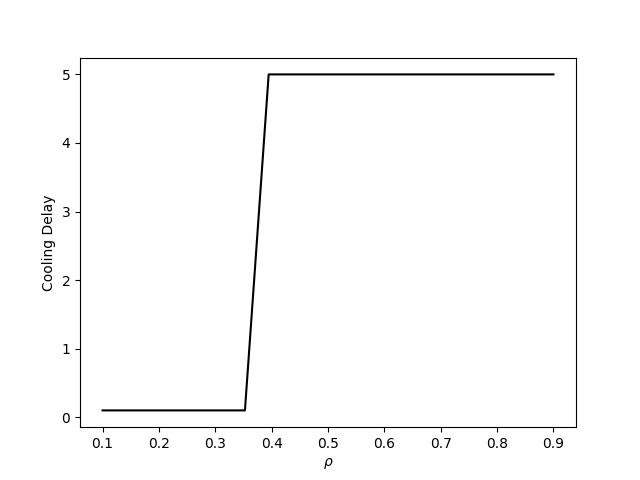
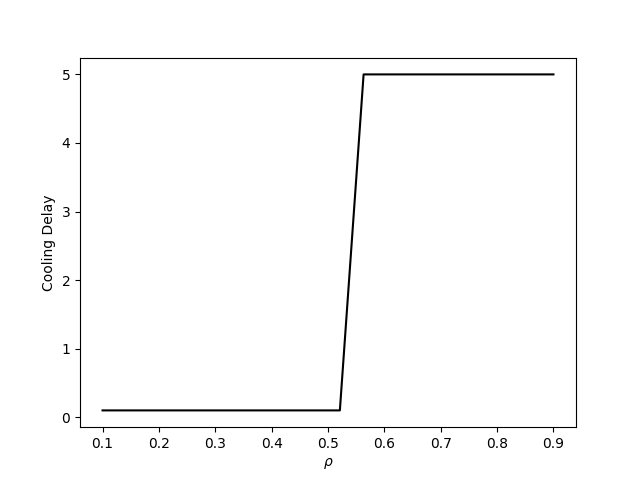
update find best delay

diff --git a/find_best_delay.py b/find_best_delay.py
@@ -30,7 +30,7 @@ def calc_no_linear_wait_cost(w1: float, wait_cost: float, alpha=0.7) -> float:
     return (w1 ** alpha)*wait_cost
 
 
-def run(qp, wait_cost=1.0, server_cost=10.0, wait_cost_calc_func=calc_wait_cost):
+def run(qp, wait_cost_calc_func=calc_wait_cost):
     """
     Find best cooling delay for a given set of parameters and utilization factor.
     :param qp: dictionary of parameters
@@ -39,6 +39,10 @@ def run(qp, wait_cost=1.0, server_cost=10.0, wait_cost_calc_func=calc_wait_cost)
     :param wait_cost_calc_func: function to calculate waiting cost
     :return: best cooling delay
     """
+    wait_cost = qp['wait_cost']
+    server_cost = qp['server_cost']
+    idle_bonus = qp['idle_bonus']
+
     rhoes = np.linspace(qp['utilization']['min'], qp['utilization']['max'],
                         qp['utilization']['num_points'])
 
@@ -73,6 +77,8 @@ def run(qp, wait_cost=1.0, server_cost=10.0, wait_cost_calc_func=calc_wait_cost)
                 server_busy_probs = num_results["servers_busy_probs"]
                 cur_servers_cost = np.sum(
                     [i*prob*server_cost for i, prob in enumerate(server_busy_probs)])
+                cur_servers_cost -= server_busy_probs[0] * \
+                    qp['channels']['base']*idle_bonus
 
                 cur_wait_cost = wait_cost_calc_func(
                     w1=num_results["w"][0], wait_cost=wait_cost)
@@ -108,10 +114,10 @@ if __name__ == "__main__":
     # only cooling for simplification
     base_qp['warmup']['mean']['base'] = 0.1
     base_qp['cooling']['mean']['base'] = 5.0
+    base_qp['delay']['mean']['num_points'] = 10
 
     rhos, best_delay, best_cost, best_server, best_wait = run(
-        base_qp, base_qp['wait_cost'], base_qp['server_cost'],
-        wait_cost_calc_func=calc_no_linear_wait_cost)
+        base_qp, wait_cost_calc_func=calc_no_linear_wait_cost)
 
     y_labels = ["Cooling Delay", "Total Cost", "Server Cost", 'Wait Cost']
 

diff --git a/run_one_calc_vs_sim.py b/run_one_calc_vs_sim.py
@@ -40,6 +40,7 @@ def run_calculation(arrival_rate: float, b: list[float],
 
     stat = {}
     stat["w"] = solver.get_w()
+    stat["v"] = solver.get_v()
     stat["process_time"] = time.process_time() - num_start
     stat["p"] = solver.get_p()[:10]
     stat["num_of_iter"] = solver.num_of_iter_
@@ -76,6 +77,7 @@ def run_simulation(arrival_rate: float, b: list[float],
     gamma_params_cold_delay = GammaDistribution.get_params(b_d)
 
     ws = []
+    vs = []
     ps = []
     process_times = []
     warmup_probs = []
@@ -96,6 +98,7 @@ def run_simulation(arrival_rate: float, b: list[float],
         sim.run(num_of_jobs)
 
         ws.append(sim.w)
+        vs.append(sim.v)  
         process_times.append(time.process_time() - im_start)
         cold_probs.append(sim.get_cold_prob())
         cold_delay_probs.append(sim.get_cold_delay_prob())
@@ -107,6 +110,7 @@ def run_simulation(arrival_rate: float, b: list[float],
     stat = {}
 
     stat["w"] = np.mean(ws, axis=0).tolist()
+    stat["v"] = np.mean(vs, axis=0).tolist()
     stat["process_time"] = np.sum(process_times)
     stat["cold_prob"] = np.mean(cold_probs)
     stat["cold_delay_prob"] = np.mean(cold_delay_probs)
